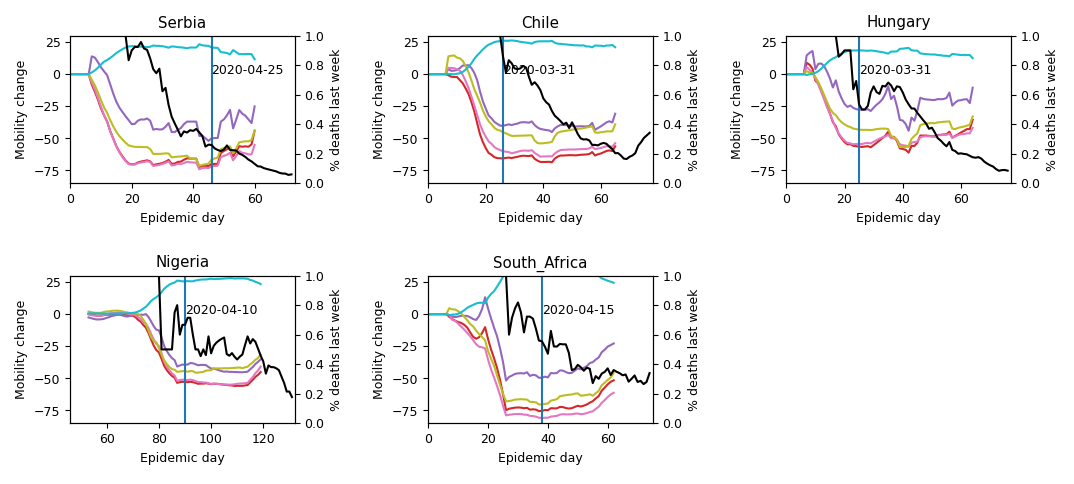
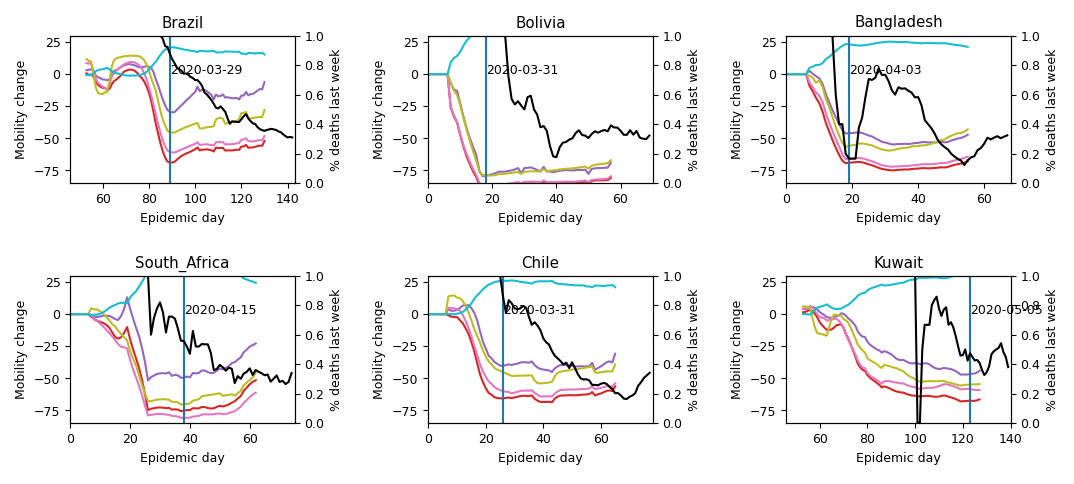
sorted by current death percentage

diff --git a/simulations/drop_and_deaths/analyze_drop.py b/simulations/drop_and_deaths/analyze_drop.py
@@ -148,7 +148,12 @@ def construct_drop(epidemic_data, mobility_data, drop_dates, outdir):
 
         #plot relationships
         plot_death_vs_drop(drop_df, outdir)
-
+        #Print countries in increaseing death % order
+        drop_df = drop_df.sort_values(by='Death percentage')
+        countries= np.array(drop_df['Country'])
+        for i in range(0,len(drop_df),9):
+            print('montage '+'_slide7.png '.join(countries[i:i+9])+ '_slide7.png -tile 3x3 -geometry +2+2')
+        pdb.set_trace()
         return drop_df
 
 def identify_drop(country_epidemic_data, country, drop_dates, covariate_names, death_start, mobility_start, mobility_end, outdir):
